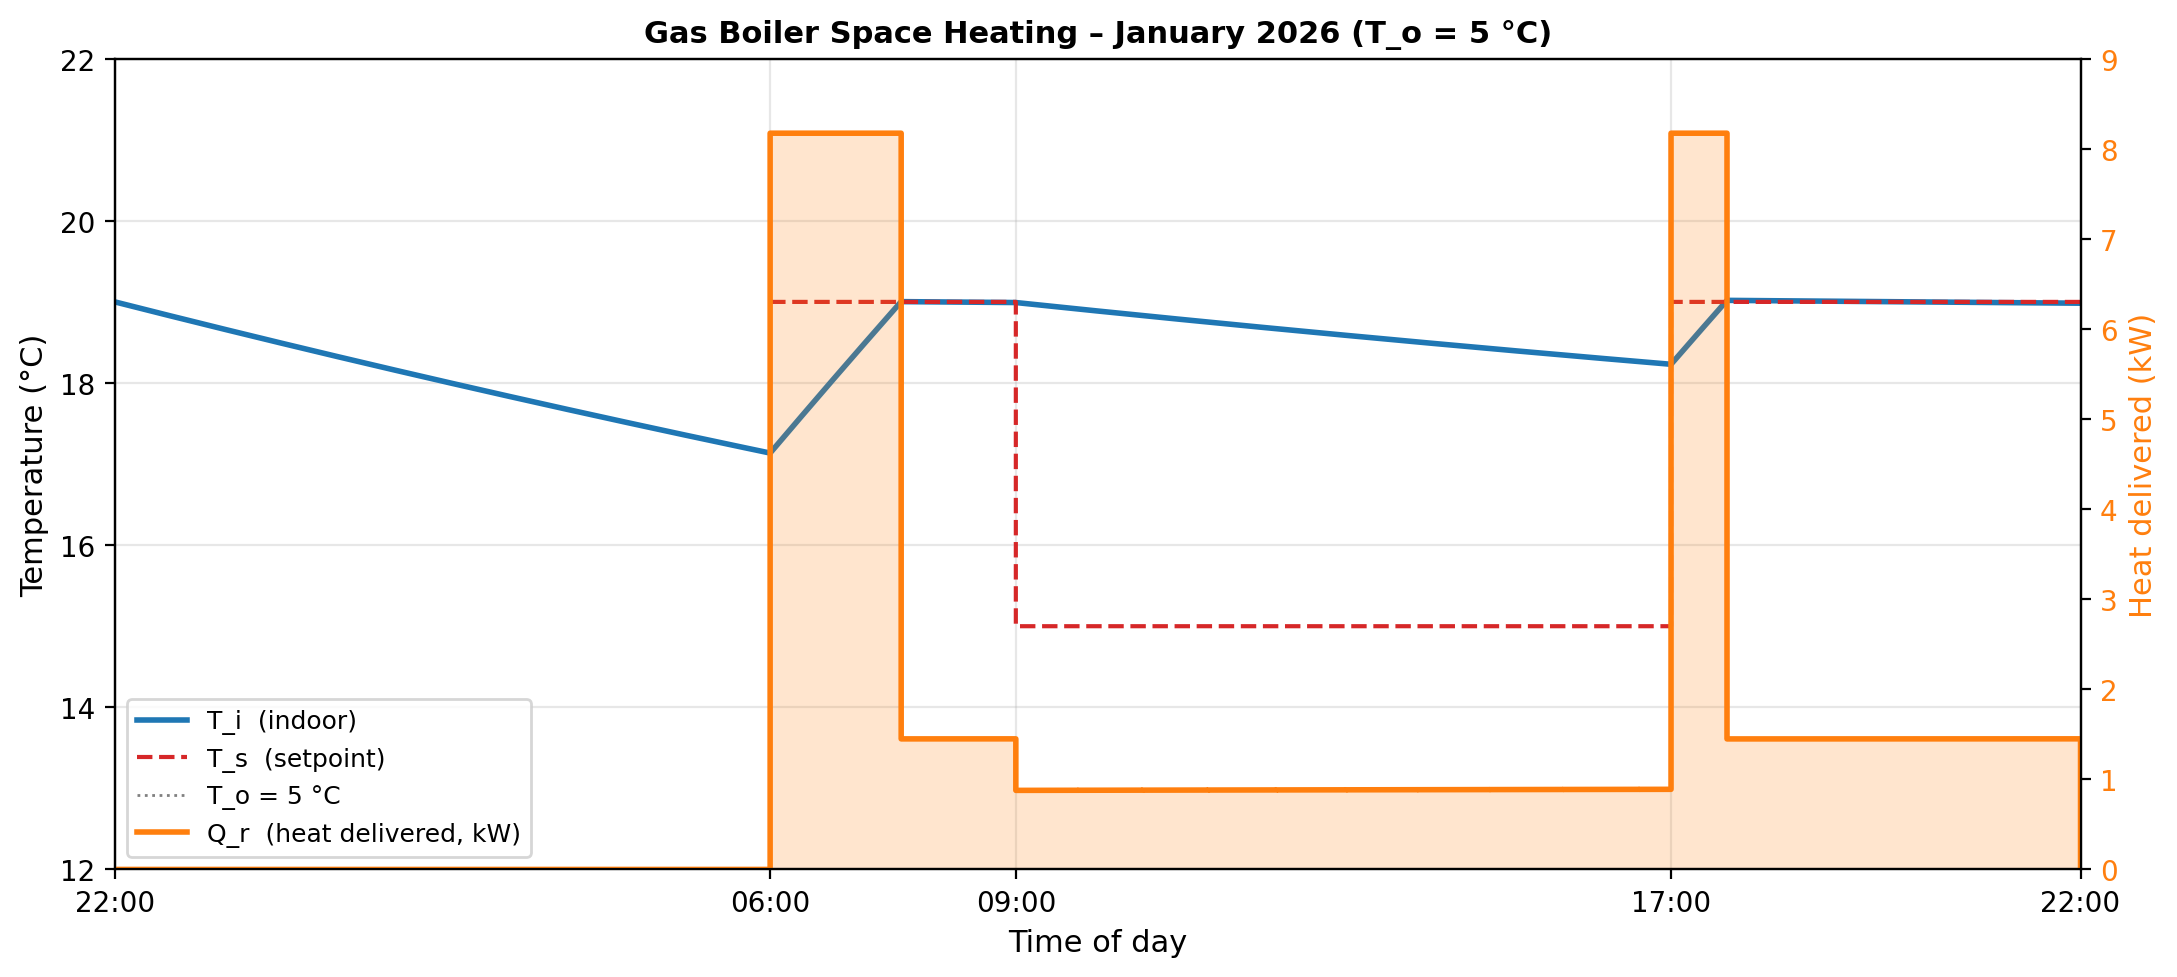
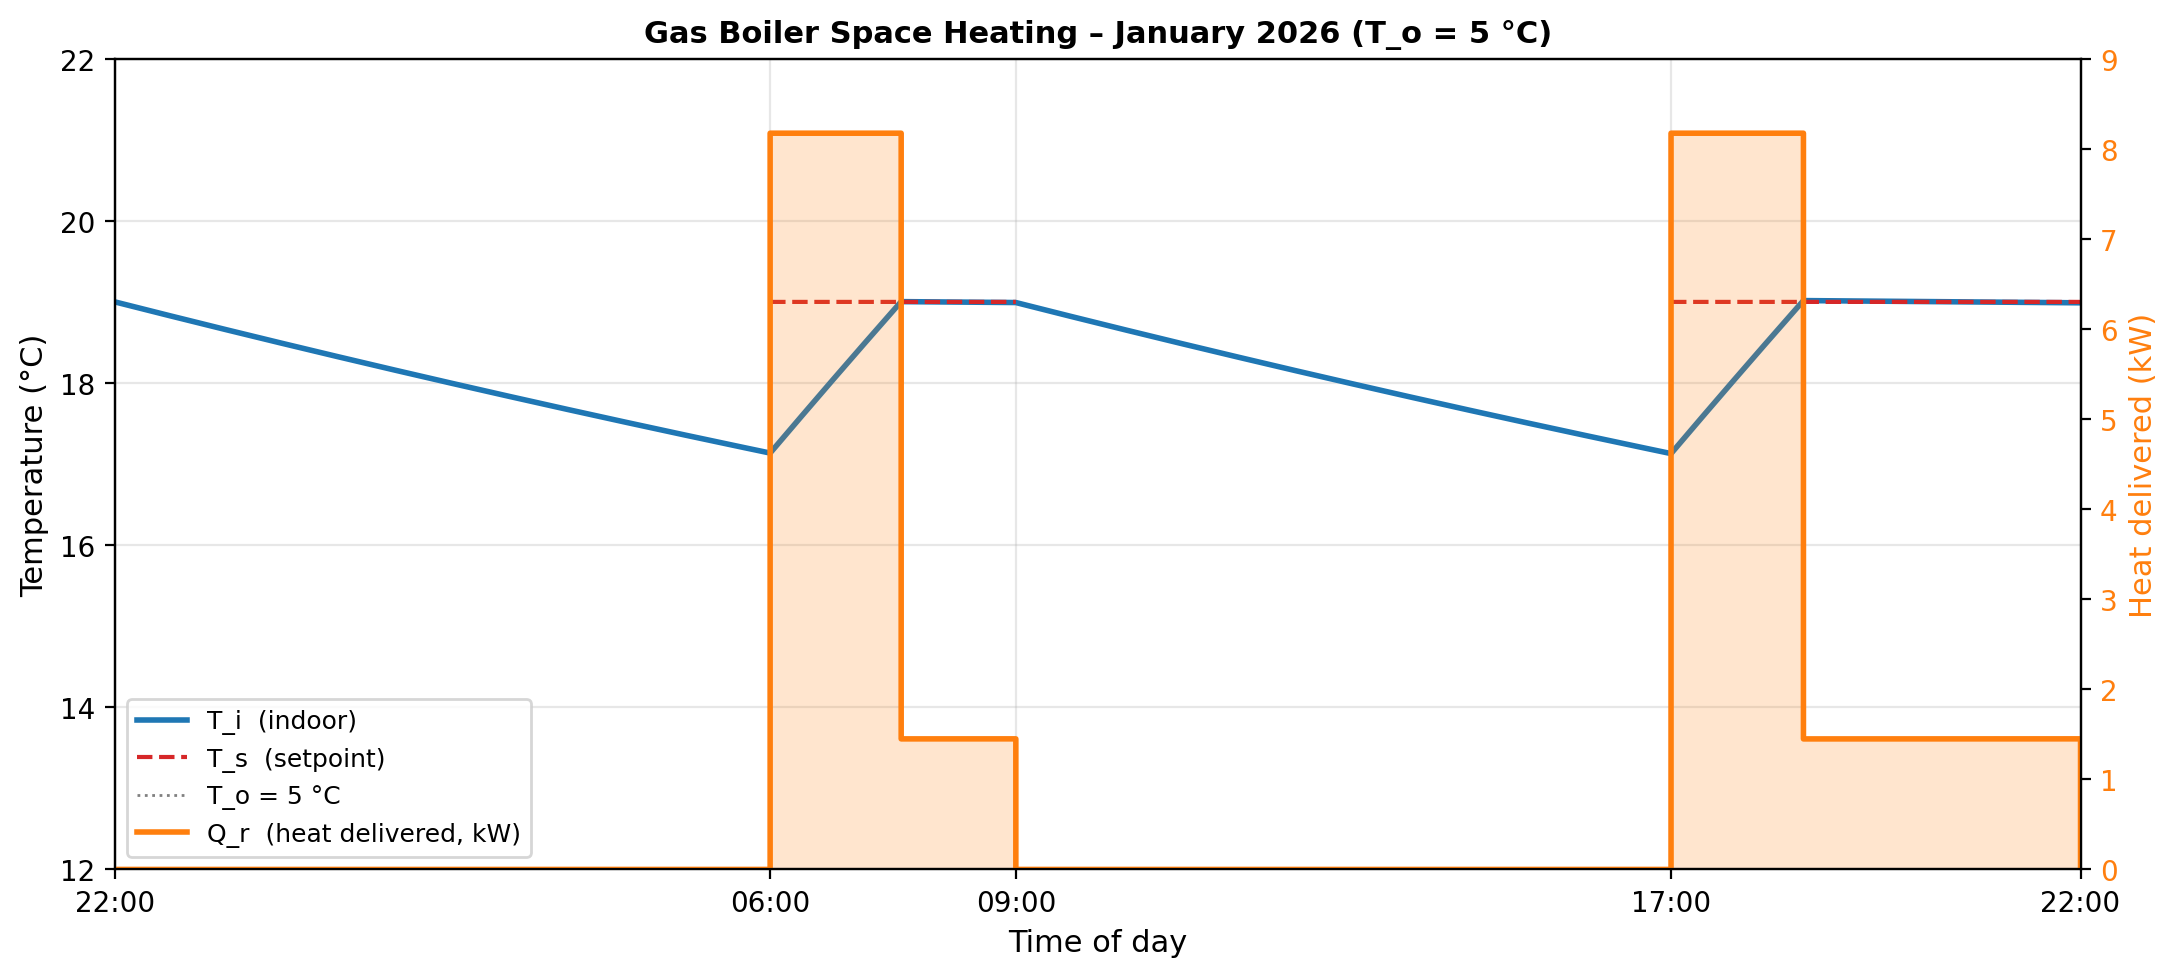
Simplified gas control schedule

diff --git a/src/heat_pump_cost/simulate_gas_boiler.py b/src/heat_pump_cost/simulate_gas_boiler.py
@@ -3,7 +3,7 @@
 Heating schedule (starting at 22:00):
   22:00 – 06:00  Heating OFF (house cools freely)
   06:00 – 09:00  Setpoint T_s = 19 °C  (full power until reached, then feed-forward)
-  09:00 – 17:00  Setpoint T_s = 15 °C  (reduced / away setpoint)
+  09:00 – 17:00  Heating OFF (house cools freely)
   17:00 – 22:00  Setpoint T_s = 19 °C  (evening warm-up)
 
 Model parameters (from April 2026 thermal identification):
@@ -47,7 +47,7 @@ GAS_STANDING_CHARGE = 0.3509        # £/day
 SCHEDULE = [
     (0,   8,  None),   # 22:00 – 06:00  OFF
     (8,  11,  19.0),   # 06:00 – 09:00  T_s = 19 °C
-    (11, 19,  15.0),   # 09:00 – 17:00  T_s = 15 °C  (away)
+    (11, 19,  None),   # 09:00 – 17:00  OFF (natural decay)
     (19, 24,  19.0),   # 17:00 – 22:00  T_s = 19 °C
 ]
 

diff --git a/operations-dynamic.md b/operations-dynamic.md
@@ -50,29 +50,29 @@ Now that we have a parameterised dynamic model, it is possible to work out the d
 
 ## Gas Boiler Space Heating
 
-Let's assume a traditional daily heating profile as pictured below. During warm-up periods, the boiler operates at full capacity, then the heating schedule: heating off after 22h, on at 6h in the morning with setpoint T_s = 19°C, off at 9h when we leave the house but keep above T_s = 15°C, on again at 17h until 22h with T_s = 19°C. The simplistic relay-based thermostatic controller would do the following:
+Let's assume a traditional daily heating profile as pictured below. The heating schedule is simple: heating off from 22:00 until 06:00, on from 06:00 to 09:00 with setpoint T_s = 19°C, then off again from 09:00 to 17:00 allowing the house to cool naturally, and finally on again from 17:00 to 22:00 with T_s = 19°C. During warm-up periods, the boiler operates at full capacity. The simplistic relay-based thermostatic controller does the following:
 
 - if T_i < T_s, heat at full power until target temperature of T_s is reached; 
 - once T_s is reached, feed-forward heating power Q_h = h * (T_s - T_o);
 - when heating off, let the temperature decay naturally; 
 
 ![Contour Plot](assets/gas_boiler_simulation.png)
-*Figure: January day heated with gas boiler, heat = 34.0 kWh/day, £2.47/day.*
+*Figure: January day heated with gas boiler, heat = 33.2 kWh/day, £2.42/day.*
 
-The gas boiler attempts to deliver its maximum capacity during warm-up periods, but the radiators limit the actual output to approximately **8.2 kW** when the flow temperature reaches 74°C(^1). The simulation shows that with a daily heat delivery of 34.0 kWh, the boiler consumes 35.8 kWh of gas (at 95% efficiency). The total daily cost is £2.47 (£2.12 gas energy + £0.35 gas standing charge)(^2).
+The gas boiler attempts to deliver its maximum capacity during warm-up periods, but the radiators limit the actual output to approximately **8.2 kW** when the flow temperature reaches 74°C(^1). The simulation shows that with a daily heat delivery of 33.2 kWh, the boiler consumes 35.0 kWh of gas (at 95% efficiency). The total daily cost is £2.42 (£2.07 gas energy + £0.35 gas standing charge)(^2).
 
 ## Equivalent Heat Pump Variant
 
 Let's assume we install an equivalent heat pump capable of delivering the same power, then run the heat pump to deliver the same power, which would lead to the same flow and return temperatures at the same flow rate. The COP and the resulting electricity consumption would follow. The flow temperature profile mirrors the power demand: when the house needs rapid heating in the morning and evening, the heat pump must push flow temperatures up to **74°C**, which reduces efficiency. The [Coefficient of Performance](https://github.com/PeterWurmsdobler/heat-pump-cost/cop-estimation.md) varies throughout the day:
 
 - During high-power warm-up periods (T_f ≈ 74°C): COP ≈ **2.6**
-- During steady-state heating (T_f ≈ 27–32°C): COP ≈ **5.0**
-- Overall seasonal average: **SCOP = 3.49**
+- During brief feed-forward periods after warm-up (T_f ≈ 32°C): COP ≈ **5.3**
+- Overall seasonal average: **SCOP = 2.96**
 
-With the power divided by the COP at each timestep, the total electricity consumption is **9.8 kWh/day**. At the January 2026 electricity price of 27.69 p/kWh, this would cost **£2.70/day** (^3). Compared to the gas boiler cost of £2.47/day,  we see that running a heat pump like a gas boiler on a flat tariff costs **9% more** than gas despite the favourable spark gap of 4.67. Conclusion: do not run a heat pump like a gas boiler; Q.E.D.
+With the power divided by the COP at each timestep, the total electricity consumption is **11.2 kWh/day**. At the January 2026 electricity price of 27.69 p/kWh, this costs **£3.11/day** for energy. Compared to the gas boiler total cost of £2.42/day (including gas standing charge), the heat pump total running cost would be £3.66/day (including electricity standing charge), making it **51% more expensive** than gas despite the favourable spark gap of 4.67. The low SCOP of 2.96 falls well below the break-even threshold, making this strategy uneconomical. To make matters worse, such a system would require a heat pump specified for the maximum power, certainly quite expensive too. Conclusion: do not run a heat pump like a gas boiler; Q.E.D.
 
 ![Heat Pump COP Profile](assets/heat_pump_cop_simulation.png)
-*Figure: January day with equivalent heat pump, heat = 34.0 kWh/day, electricity = 9.8 kWh/day, £2.70/day.*
+*Figure: January day with equivalent heat pump, heat = 33.2 kWh/day, electricity = 11.2 kWh/day, £3.11/day energy (total £3.66/day with standing charge).*
 
 ## Smooth Operator Heat Pump
 
@@ -88,12 +88,12 @@ Running the heat pump continuously at low baseline power (800W) during off-peak 
 ![Smooth Heat Pump Operation](assets/smooth_heat_pump_operation.png)
 *Figure: Smooth heat pump operation, heat = 36.7 kWh/day, electricity = 7.1 kWh/day, £1.96/day.*
 
-The flow temperature profile reveals the efficiency advantage of continuous operation: temperatures range from 25–36°C instead of spiking to 74°C. During baseline heating periods, flow temperatures stay around 25–28°C, achieving COP values of 5.8–6.3 (these high values represent theoretical best-case performance at very low temperature lift). During comfort periods, temperatures reach 33–36°C with COP around 4.8–5.2. The overall seasonal COP of **5.18** is much higher than the 3.49 achieved with simple thermostat control. With electricity consumption of **7.1 kWh/day** at 27.69 p/kWh, the daily cost is **£1.96**, cheaper than both the simple thermostat heat pump at £2.70 and the gas boiler cost of £2.47.
+The flow temperature profile reveals the efficiency advantage of continuous operation: temperatures range from 25–36°C instead of spiking to 74°C. During baseline heating periods, flow temperatures stay around 25–28°C, achieving COP values of 5.8–6.3 (these high values represent theoretical best-case performance at very low temperature lift). During comfort periods, temperatures reach 33–36°C with COP around 4.8–5.2. The overall seasonal COP of **5.18** is much higher than the 2.96 achieved with simple thermostat control. With electricity consumption of **7.1 kWh/day** at 27.69 p/kWh, the daily cost is **£1.96**, cheaper than both the simple thermostat heat pump at £3.11 and the gas boiler cost of £2.42.
 
 ![Smooth Heat Pump COP](assets/smooth_heat_pump_cop.png)
 *Figure: Continuous smooth operation maintains low flow temperatures and high COP throughout the day.*
 
-This demonstrates that heat pump economics depend critically on control strategy: continuous operation with optimised flow temperatures and predictive pre-heating transforms the heat pump from 9% more expensive than gas to **20% cheaper**, while maintaining better comfort throughout the day. The economics could be improved further by moderately upgrading radiators in order to allow lowering the flow temperature even further, hence increasing the COP and decreasing electricity consumption.
+This demonstrates that heat pump economics depend critically on control strategy: continuous operation with optimised flow temperatures and predictive pre-heating transforms the heat pump from 51% more expensive than gas to **19% cheaper**, while maintaining better comfort throughout the day. The economics could be improved further by moderately upgrading radiators in order to allow lowering the flow temperature even further, hence increasing the COP and decreasing electricity consumption. On the flipside, a heat pump rated a bit more than the average power is needed, again cheaper.
 
 ## Playing the Dynamic Tariffs
 
@@ -136,22 +136,22 @@ There is another factor to be taken into account in colder areas: defrost cycles
 
 Across the various heating strategies simulated, several key insights emerge about the economics and operation of heat pumps compared to gas boilers. All costs include heating energy and, for gas heating, the gas standing charge. The electricity standing charge is excluded from all scenarios as all households incur this charge regardless of heating method. The operating costs for January 2026 conditions (T_o = 5°C average) are:
 
-- **Gas boiler (traditional on/off control)**: £2.47/day  
-  Heat: 34.0 kWh/day, Gas: 35.8 kWh/day, Cost: £2.12 gas energy + £0.35 gas SC
+- **Gas boiler (simple on/off control, heating 6-9am and 17-22h only)**: £2.42/day  
+  Heat: 33.2 kWh/day, Gas: 35.0 kWh/day, Cost: £2.07 gas energy + £0.35 gas SC
 
-- **Heat pump with simple thermostat control (mimicking gas boiler operation)**: £2.70/day (+9% vs gas)  
-  Heat: 34.0 kWh/day, Electricity: 9.8 kWh/day, SCOP: 3.49, Cost: £2.70 energy  
-  Flow temperatures spike to 74°C, reducing efficiency during warm-up periods.
+- **Heat pump with simple thermostat control (mimicking gas boiler operation)**: £3.11/day (+51% vs gas)  
+  Heat: 33.2 kWh/day, Electricity: 11.2 kWh/day, SCOP: 2.96, Cost: £3.11 energy  
+  Flow temperatures spike to 74°C during warm-up periods. The low SCOP of 2.96 falls well below the spark gap of 4.67, making this strategy uneconomical.
 
-- **Heat pump with smooth continuous operation (flat tariff)**: £1.96/day (−20% vs gas)  
+- **Heat pump with smooth continuous operation (flat tariff)**: £1.96/day (−19% vs gas)  
   Heat: 36.7 kWh/day, Electricity: 7.1 kWh/day, SCOP: 5.18, Cost: £1.96 energy  
   Continuous baseline heating, flow temperatures 25–36°C, superior comfort and COP.
 
-- **Heat pump with tariff-optimised operation (Octopus Cosy)**: £2.15/day (−13% vs gas)  
+- **Heat pump with tariff-optimised operation (Octopus Cosy)**: £2.15/day (−11% vs gas)  
   Heat: 41.3 kWh/day, Electricity: 8.5 kWh/day, SCOP: 4.85, Cost: £2.15 energy  
   Pre-heating during cheap periods (14.53p), flow temperatures up to 41°C when electricity is cheap.
 
-The smooth continuous heat pump operation achieves the lowest cost of all scenarios at £1.96/day, actually **20% cheaper than gas heating** while providing superior comfort. This demonstrates that heat pumps can not only match but beat gas economics when operated intelligently with optimised flow temperatures and predictive control. The tariff-optimised strategy on Octopus Cosy is **13% cheaper than gas**.
+The simple thermostat heat pump operation (mimicking a gas boiler) is the worst performer with a total running cost of £3.66/day (including standing charge), **51% more expensive than gas heating**. This clearly demonstrates that heat pumps cannot be operated like gas boilers. In contrast, the smooth continuous heat pump operation achieves the lowest cost of all scenarios at £1.96/day, **19% cheaper than gas heating** while providing superior comfort. This demonstrates that heat pumps can beat gas economics when operated intelligently with optimised flow temperatures and predictive control. The tariff-optimised strategy on Octopus Cosy is **11% cheaper than gas**.
 
 
 # Conclusion

diff --git a/README.md b/README.md
@@ -199,10 +199,12 @@ heat-pump-gas-boiler
 Simulates traditional gas boiler operation with schedule:
 - 22:00–06:00: OFF (house cools)
 - 06:00–09:00: 19°C comfort
-- 09:00–17:00: 15°C reduced (away)
+- 09:00–17:00: OFF (house cools)
 - 17:00–22:00: 19°C comfort
 
-**Results:** 34.0 kWh/day heat, 35.8 kWh/day gas, £2.47/day (gas energy + gas SC)
+**Results:** 33.2 kWh/day heat, 35.0 kWh/day gas, £2.42/day (gas energy + gas SC)
+
+**Equivalent heat pump (same heating pattern):** 11.2 kWh/day electricity, SCOP 2.96, £3.11/day (51% more expensive, demonstrating why heat pumps shouldn't mimic gas boiler operation)
 
 **Outputs:**
 - `assets/gas_boiler_simulation.png` — temperature and power profiles
@@ -220,7 +222,7 @@ Simulates optimized continuous operation:
 - Max flow temperature 45°C
 - Predictive control with 3-hour lookahead
 
-**Results:** 36.7 kWh/day heat, 7.1 kWh/day electricity, SCOP 5.18, £1.96/day (20% cheaper than gas)
+**Results:** 36.7 kWh/day heat, 7.1 kWh/day electricity, SCOP 5.18, £1.96/day (19% cheaper than gas)
 
 **Outputs:**
 - `assets/smooth_heat_pump_operation.png` — temperature and power profiles
@@ -239,7 +241,7 @@ Simulates cost optimization for Octopus Cosy dynamic tariff:
 
 **Results:** 41.3 kWh/day heat, 8.5 kWh/day electricity, SCOP 4.85, £2.15/day
 - Saves £0.20/day vs flat tariff operation (£30/year)
-- 13% cheaper than gas (£2.47/day), and saves £30/year vs running the same strategy on a flat tariff
+- 11% cheaper than gas (£2.42/day), and saves £30/year vs running the same strategy on a flat tariff
 
 **Outputs:**
 - `assets/octopus_cosy_tariff.png` — tariff structure visualization
